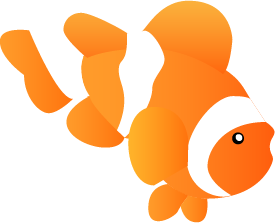
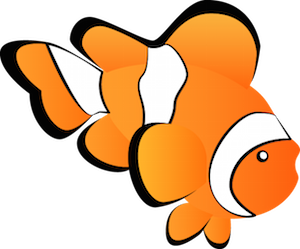
new images, cleaned up css & index

Changed region(s): [[0.0, 0.0, 1.0, 1.0]]

diff --git a/index.html b/index.html
@@ -20,38 +20,75 @@
     <script src="js/vendor/modernizr.js"></script>
   </head>
   <body>  
-  <!-- Nav Section -->
+
+  <!-- nav -->
+
     <nav class="nav">
       <div class="leftNav">
         <div class="navItem"><a href="#home" class="navName">babblefish</a></div>
       </div>
       <div class="rightNav">
-        <div class="navItem"><a href="#about" class="navText">How it Works</a></div>
-        <div class="navItem"><a href="#about" class="navText">What it does</a></div>
-        <div class="navItem"><a href="#about" class="navText">Get it</a></div>
+        <div class="navItem"><a href="#who" class="navText">What it does</a></div>
+        <div class="navItem"><a href="#how" class="navText">How it Works</a></div>
+        <div class="navItem"><a href="#get" class="navText">Get it</a></div>
       </div>
     </nav>
+
+    <!-- hero -->
+
     <div class="wrap">
       <section class="row hero">
         <div class="rowItem">
-          <div class="bubble" style="margin-left: 230px;"></div>
-          <div class="bubble"></div>
-          <div class="bubble" style="margin-left: 270px;"></div>
           <div class="bigFish"><img src="img/clownfish.png"></div>
         </div>
-        <div class="rowItem" style="flex-grow: 2; margin: 3em 4em; z-index: 1;">
-          <h2>Be the Big Fish.</h2>
-          <h4>Babblefish knows you what people want to hear so you don't have to.</h4>
+        <div class="rowItem" style="flex-grow: 2; z-index: 1;">
+          <h1>Be the Big Fish.</h1>
+          <h4>Babblefish knows what people want to hear so you don't have to.</h4>
         </div>  
         <div class="rowItem fishies">
           <img src="img/fishies.png">
         </div>
       </section>
     </div>
-    <div class ="white wrap">
+
+    <!-- who needs it -->
+
+    <div class ="white wrap"  id="who">
+      <h2 style="color: #1A237E;">What Does it Do?</h2>
+      <section class="column">
+        <div class="row">
+          <div class="rowItem left wider">
+            <h3>Babblefish makes better business.</h3>
+            <p>Whether it's crushing it at a networking event or rocking a presentation, Babblefish feeds you the lines you need to make big things happen. It'll even land you that job that you are woefully underqualified for!</p>
+          </div>
+          <div class="rowItem">
+          	<div class="roundBackground column" style="margin-right: 2em;">
+				<img src="img/fishBusiness.png">
+			</div>
+          </div>
+        </div>  
+        <div class="row flip">
+          <div class="rowItem">
+            <div class="roundBackground column">
+            	<img src="img/clownfishLovers.png">
+            </div>
+          </div>
+          <div class="rowItem left wider">
+            <h3>Babblefish takes the frustration out of relationships.</h3>
+            <p>Relationships are tricky and trying to understand where people are coming from and how you can get them to stop talking is a huge time suck. Babblefish lets you focus on more important things like your myriad genius startup ideas.</p>
+          </div>
+        </div>  
+        </div>    
+      </section>
+    </div>
+
+    <!-- how it works -->
+
+    <div class ="blue wrap"  id="how">
+      <h2>How does it work?</h2>
       <section class="row">
         <div class="rowItem left">
-          <h3>Babblefish makes better business.</h3>
+          <h3>How it Works.</h3>
           <p>Whether it's crushing it at a networking event or rocking a presentation, Babblefish feeds you the lines you need to make big things happen.Whether it's crushing it at a networking event or rocking a presentation, Babblefish feeds you the lines you need to make big things happen.</p>
         </div>  
         <div class="rowItem">
@@ -59,57 +96,69 @@
         </div>
       </section>
     </div>
-    <div class ="blue wrap">
-      <section class="row"> 
+
+
+     <!-- happy customers -->
+
+    <div class ="white wrap">
+      <h2 style="color: #1A237E;">We're changing lives</h2>
+      <section class="row alignTop">
+        <div class="column">
+          <div class="round">
+            <img src="img/jerry.jpg">
+          </div>
+          <h3>Evan</h3>
+          <h5>Thought Leader</h5>
+          <p>"Before Babblefish my colleagues never seemed to latch on to my game changing ideas. Now, I just open my mouth and people are enthralled and inspired. I'm crushing it and shifting paradigms left and right. It also really helps with the ladies!"</p>
+        </div>  
+        <div class="column">
+          <div class="round">
+            <img src="img/kath.jpg">
+          </div>
+          <h3>Kathleen</h3>
+          <h5>Toll Booth Operator & Dreamer</h5>
+          <p>"I have lots of deep thoughts and profound insights but before Babblefish people always thought they seemed 'convoluted', 'insipid' (sp?) or 'stupid'. Not anymore. Thanks Babblefish!"</p>
+        </div>  
+        <div class="column">
+          <div class="round">
+            <img src="img/raffi.jpg">
+          </div>
+          <h3>Raffi</h3>
+          <h5>Founder & Dog</h5>
+          <p>"Last week my mom got me a Babblefish and at the park this VC dude with a poodle came over to pet me. Next thing I know, he wants to finance my idea for on demand chew toys delivered by drones."
+          </p> 
+          <p>*Babblefish for pets is in beta.</p>
+        </div>  
+      </section>
+    </div>
+
+    <!-- get it -->
+    <div class="wrap" id="get">
+      <section class="row">
         <div class="rowItem">
-          <img src="img/clownfish.png">
-        </div>
-        <div class="rowItem left">
-          <h3>Babblefish makes relationships work.</h3>
-          <p>Relationships are tricky and trying to understand where people are coming from and how you can get them to stop talking is a huge time suck. Babblefish lets you focus on more important things like your sick new startup ideas.</p>
+          <h2>lol jk</h2>
         </div> 
       </section>
     </div>
-    <div class ="white wrap">
-      <section class="row">
-        <div class="rowItem left">
-          <h3>Babblefish makes better business.</h3>
-          <p>Whether it's crushing it at a networking event or rocking a presentation, Babblefish feeds you the lines you need to make big things happen.Whether it's crushing it at a networking event or rocking a presentation, Babblefish feeds you the lines you need to make big things happen.</p>
-        </div>  
-        <div class="rowItem">
-          <img src="img/clownfish.png">
-        </div>
-      </section>
-    </div>
+    <footer>Made by<a href="http://www.kathleenmatthews.com"> kathmath</a> in 2015 for a bit of fun.<a href="mailto:kathmath@gmail.com"> Say hi!</a></footer>
 
+	<!-- scripts --> 
 
-</div>
-  <!-- Home Section --> 
+	<script src="js/vendor/jquery.js"></script>
+	<script type="text/javascript">
+	  $(document).ready(function(){
+	      $('a[href*=#]').bind("click", function(e){
+	      var anchor = $(this);
+	      var locate =  $.attr(this, 'href').substr($.attr(this, 'href').indexOf('#')+1);
+	      $('html, body').stop().animate({
+	          scrollTop: $('[id="' + locate + '"]').offset().top
+	      }, 800, "swing");
 
-  <!-- How it works Section -->  
-    
-  <!-- What it Does Section -->     
-    
-  <!-- Get it Section --> 
-      
-
-
-      <!-- scripts --> 
-	    <script src="js/vendor/jquery.js"></script>
-	    <script type="text/javascript">
-	      $(document).ready(function(){
-	          $('a[href*=#]').bind("click", function(e){
-	          var anchor = $(this);
-	          var locate =  $.attr(this, 'href').substr($.attr(this, 'href').indexOf('#')+1);
-	          $('html, body').stop().animate({
-	              scrollTop: $('[id="' + locate + '"]').offset().top
-	          }, 800, "swing");
-
-	          $(this).delay(800).queue(function(){ window.location.hash = locate; });
-	          e.preventDefault();
-	        });
-	      });    
-	    </script> 
+	      $(this).delay(800).queue(function(){ window.location.hash = locate; });
+	      e.preventDefault();
+	    });
+	  });    
+	</script> 
 	    
   </body>
 </html>

diff --git a/css/styleGuide.css b/css/styleGuide.css
@@ -12,7 +12,7 @@ figure, figcaption, footer, header, hgroup,
 menu, nav, output, ruby, section, summary,
 time, mark, audio, video {
   border: 0;
-  font-size: 100%;
+  font-size: 16px;
   font: inherit;
   vertical-align: baseline;
   -webkit-margin-before: 0;
@@ -30,7 +30,6 @@ time, mark, audio, video {
 body {
   font-family: 'Lato', sans-serif;
   line-height: 1.4;
-  font-size: 1em;
   position: relative;
   cursor: default;
   text-decoration: none;
@@ -235,20 +234,26 @@ a:hover {
   text-align: left;
 }
 
+.right {
+  text-align: right;
+}
+
 .fishies {
   transform: translateX(-12em);
 }
 
 .bigFish {
   -webkit-animation-name: floating;
+  -webkit-animation-delay: 2s;
   -webkit-animation-duration: 6s;
   -webkit-animation-iteration-count: infinite;
   -webkit-animation-timing-function: ease-in-out;
   -moz-animation-name: floating;
+  -moz-animation-delay: 2s;
   -moz-animation-duration: 6s;
   -moz-animation-iteration-count: infinite;
   -moz-animation-timing-function: ease-in-out;
-  
+  margin-top: -6em;
 }
 
 @-webkit-keyframes floating{
@@ -261,6 +266,72 @@ a:hover {
     from {-moz-transform:translate3d(0px, 0px, 0px);}
     65% {-moz-transform:translate3d(8px, 15px, 0px);}
     to {-moz-transform: translate3d(-0px, -0px, 0px);}    
+}
+
+.swim {
+  -webkit-animation-name: swim; 
+  -webkit-animation-duration: 3s;
+  -webkit-animation-iteration-count: 1;
+  -webkit-animation-timing-function: ease-in-out;
+  }
+
+@-webkit-keyframes swim {
+    from {-webkit-transform:translate3d(-400px, 0px, 0px);}
+    to {-webkit-transform: translate3d(0px, 0px, 0px);}   
+}
+
+
+.bubbleContainer {
+  transform: translateY(8em);
+}
+
+.bubble {
+  width: 14px;
+  height: 14px;
+  margin-left: 250px;
+  margin-bottom: 10px;
+  border: 1px solid rgba(255,255,255,0.5);
+  background: rgba(255,255,255,0.25);
+  border-radius: 30px;
+  transform: translateY(8em);
+  -webkit-animation-name: bubbles;
+  animation-name: bubbles;
+  -webkit-animation-iteration-count: infinite;
+  animation-iteration-count: infinite;
+  animation-duration: 1s;
+}
+
+.divide {
+  height:15px;
+  background-color: rgba(26, 35, 126, 0.3);
+}
+
+
+@keyframes bubbles {
+  from {
+    right: 300px;
+    bottom: 0px;
+    opacity: 0.9;
+  }
+
+  50% {
+    right: 270px;
+    bottom: 100px;
+    opacity: 0.5;
+  }
+
+
+  to {
+    right: 300px;
+    bottom: 200px;
+    opacity: 0.3;
+
+  }
+}
+
+a.button:hover {
+  color: white;
+  background-color: blue;
 }
 
 /* who needs it*/
@@ -298,7 +369,7 @@ a:hover {
   width: 16em;
   height: 16em;
   margin: 0 auto;
-  background: #536DFE;
+  background-color: #fff;
   border: solid 6px #141B61;
   box-shadow: 4px 4px 0 rgba(0,0,0,0.2);
   margin-right: 4em;
@@ -378,17 +449,12 @@ footer {
 }
 
 .bigFish {
-  margin-top: 0em;
+  margin-top: -8em;
 }
 
 .fishies {
   margin-top: -6em;
-}
-
-.flip {
-  -webkit-flex-direction: column-reverse;
-  -ms-flex-direction: column-reverse;
-  flex-direction: column-reverse;
+  margin-left: 10em;
 }
   
 }
